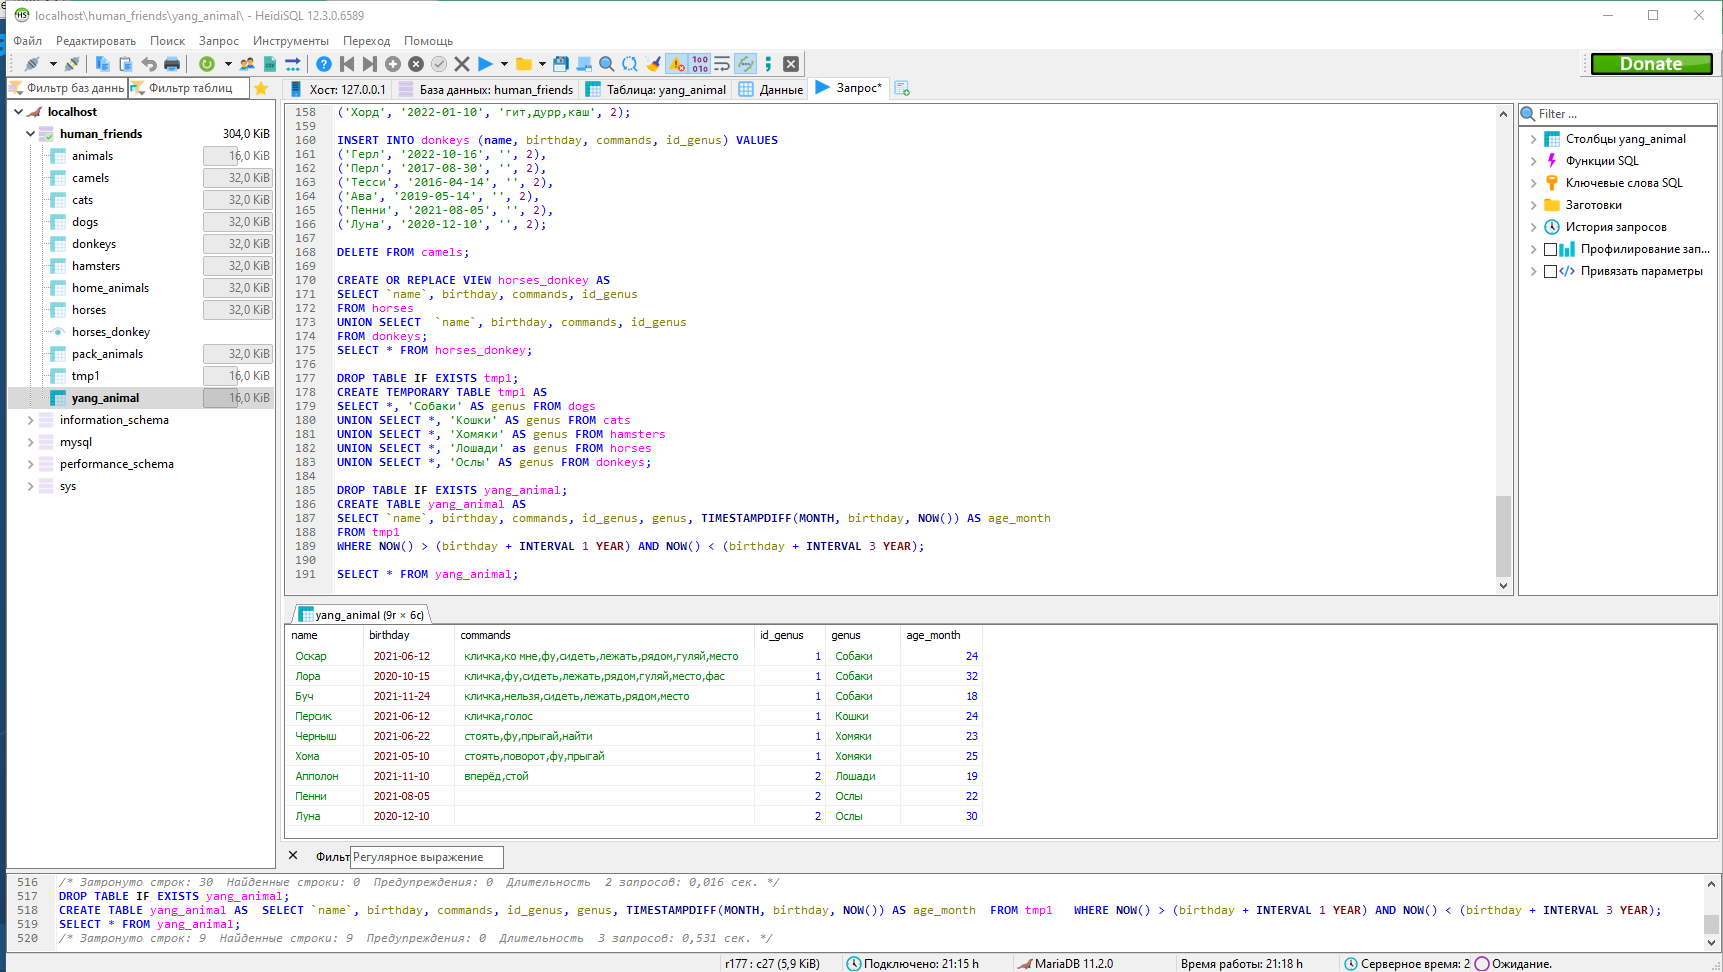
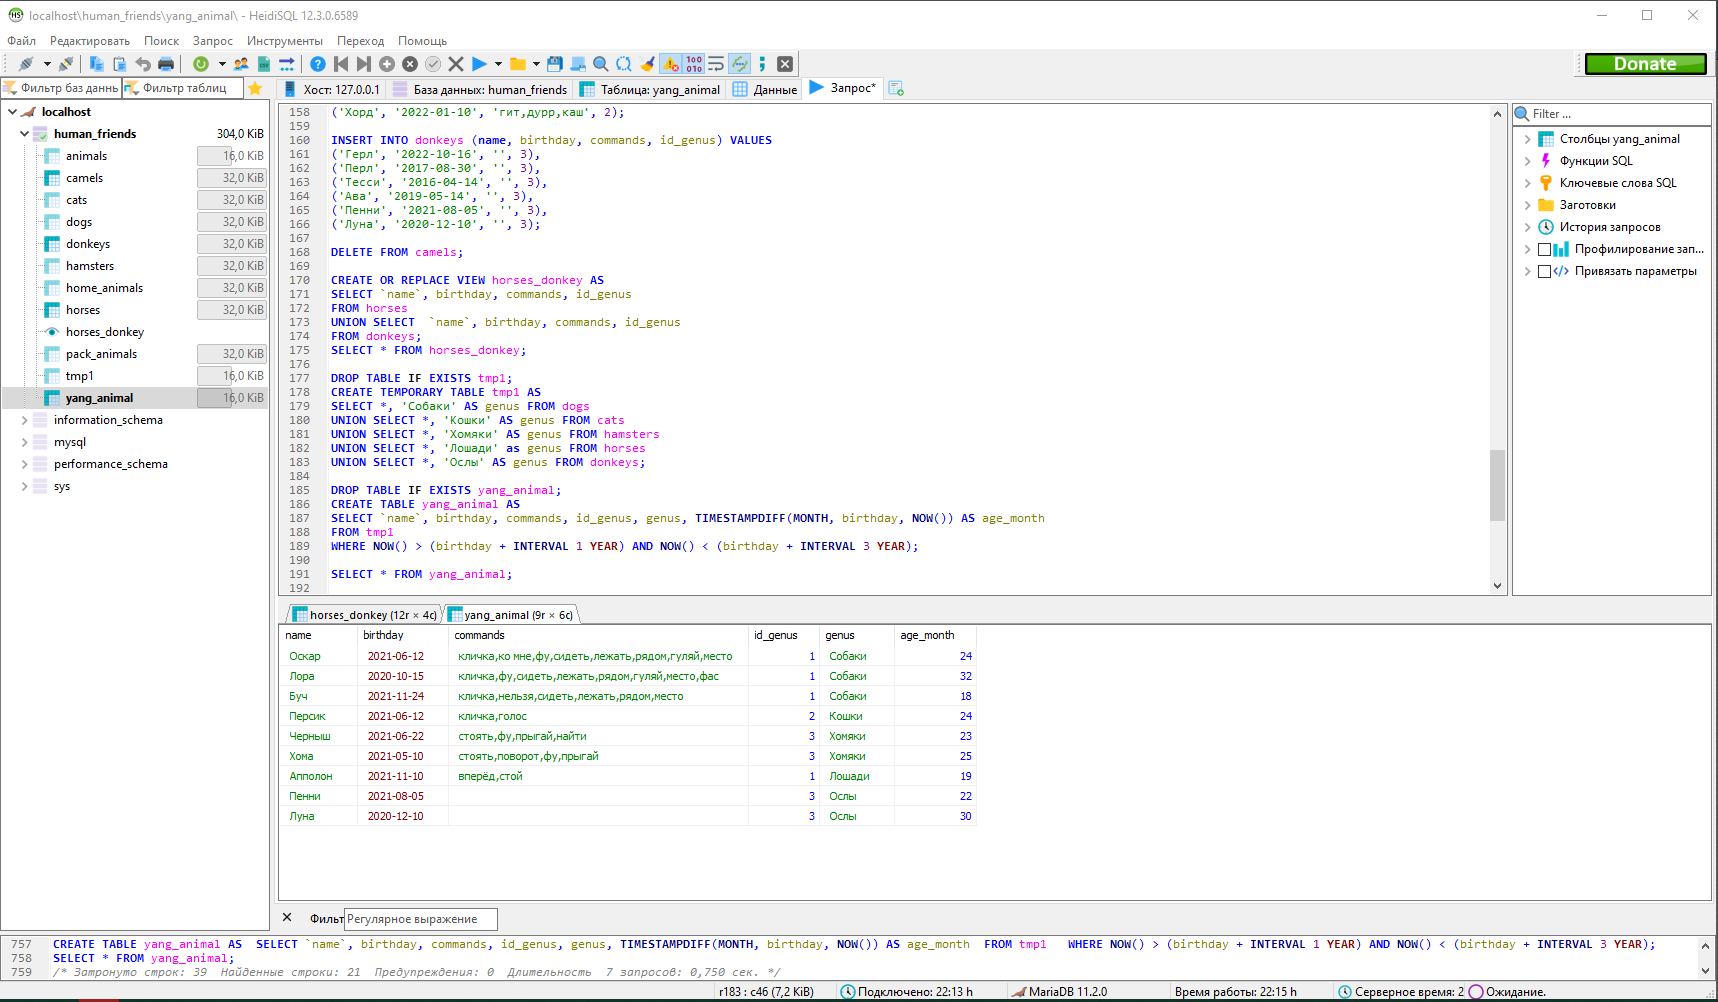
completing task 12,fixed the found errors and adding pictures for task

Changed region(s): [[0.0, 0.0, 1.0, 1.0], [0.5553, 0.7716, 0.5861, 0.8025], [0.5553, 0.7099, 0.5861, 0.7407]]

diff --git a/README.MD b/README.MD
@@ -248,7 +248,7 @@
     birthday DATE,
     commands tinytext,
     id_genus int,
-    FOREIGN KEY (id_genus) REFERENCES home_animals (id) ON DELETE CASCADE ON UPDATE CASCADE
+    FOREIGN KEY (id_genus) REFERENCES pack_animals (id) ON DELETE CASCADE ON UPDATE CASCADE
     );
     
     DROP TABLE IF EXISTS camels;
@@ -259,7 +259,7 @@
     birthday DATE,
     commands tinytext,
     id_genus int,
-    FOREIGN KEY (id_genus) REFERENCES home_animals (id) ON DELETE CASCADE ON UPDATE CASCADE
+    FOREIGN KEY (id_genus) REFERENCES pack_animals (id) ON DELETE CASCADE ON UPDATE CASCADE
     );
     
     DROP TABLE IF EXISTS donkeys;
@@ -270,7 +270,7 @@
     birthday DATE,
     commands tinytext,
     id_genus int,
-    FOREIGN KEY (id_genus) REFERENCES home_animals (id) ON DELETE CASCADE ON UPDATE CASCADE
+    FOREIGN KEY (id_genus) REFERENCES pack_animals (id) ON DELETE CASCADE ON UPDATE CASCADE
     );
 
 ### Задача 9
@@ -287,30 +287,30 @@
     ('Буч', '2021-11-24', 'кличка,нельзя,сидеть,лежать,рядом,место', 1);
     
     INSERT INTO cats (name, birthday, commands, id_genus) VALUES
-    ('Рубик', '2020-01-09', 'кличка,ко мне', 1),
-    ('Персик', '2021-06-12', 'кличка,голос', 1),  
-    ('Ася', '2017-12-04', 'кличка,голос,ко мне', 1),
-    ('Фиона', '2018-08-21', 'кличка,сидеть,ползи,принеси,голос,прыжок,ко мне', 1),
-    ('Смоки', '2019-05-11', 'кличка,сидеть,ползи,принеси,голос,прыжок,ко мне', 1),
-    ('Лиззи', '2022-07-08', 'кличка,кис-кис', 1);
+    ('Рубик', '2020-01-09', 'кличка,ко мне', 2),
+    ('Персик', '2021-06-12', 'кличка,голос', 2),  
+    ('Ася', '2017-12-04', 'кличка,голос,ко мне', 2),
+    ('Фиона', '2018-08-21', 'кличка,сидеть,ползи,принеси,голос,прыжок,ко мне', 2),
+    ('Смоки', '2019-05-11', 'кличка,сидеть,ползи,принеси,голос,прыжок,ко мне', 2),
+    ('Лиззи', '2022-07-08', 'кличка,кис-кис', 2);
     
     INSERT INTO hamsters (name, birthday, commands, id_genus) VALUES
-    ('Банни', '2020-01-08', 'стоять,поворот,фу,прыгай,найти', 1),
-    ('Черныш', '2021-06-22', 'стоять,фу,прыгай,найти', 1),  
-    ('Бонни', '2019-05-16', 'стоять,поворот,фу,прыгай,найти', 1),
-    ('Джей', '2018-05-30', 'стоять,поворот,фу', 1),
-    ('Винни', '2018-12-31', 'стоять,фу,найти', 1),
-    ('Хома', '2021-05-10', 'стоять,поворот,фу,прыгай', 1);
+    ('Банни', '2020-01-08', 'стоять,поворот,фу,прыгай,найти', 3),
+    ('Черныш', '2021-06-22', 'стоять,фу,прыгай,найти', 3),  
+    ('Бонни', '2019-05-16', 'стоять,поворот,фу,прыгай,найти', 3),
+    ('Джей', '2018-05-30', 'стоять,поворот,фу', 3),
+    ('Винни', '2018-12-31', 'стоять,фу,найти', 3),
+    ('Хома', '2021-05-10', 'стоять,поворот,фу,прыгай', 3);
     
     -- pack_animals tables data --
     
     INSERT INTO horses (name, birthday, commands, id_genus) VALUES
-    ('Виконт', '2015-01-24', 'вперёд,стой,рысь,хоп,шагом,тише', 2),
-    ('Буран', '2019-03-28', 'вперёд,стой,тише', 2),  
-    ('Базилик', '2016-09-12', 'вперёд,стой,рысь,хоп,шагом', 2),
-    ('Гранат', '2016-07-09', 'вперёд,стой,рысь,хоп,шагом,тише', 2),
-    ('Астон', '2018-09-14', 'вперёд,стой,рысь,хоп', 2),
-    ('Апполон', '2021-11-10', 'вперёд,стой', 2);
+    ('Виконт', '2015-01-24', 'вперёд,стой,рысь,хоп,шагом,тише', 1),
+    ('Буран', '2019-03-28', 'вперёд,стой,тише', 1),  
+    ('Базилик', '2016-09-12', 'вперёд,стой,рысь,хоп,шагом', 1),
+    ('Гранат', '2016-07-09', 'вперёд,стой,рысь,хоп,шагом,тише', 1),
+    ('Астон', '2018-09-14', 'вперёд,стой,рысь,хоп', 1),
+    ('Апполон', '2021-11-10', 'вперёд,стой', 1);
     
     INSERT INTO camels (name, birthday, commands, id_genus) VALUES
     ('Блум', '2022-01-23', 'гит,дурр,каш', 2),
@@ -321,12 +321,12 @@
     ('Хорд', '2022-01-10', 'гит,дурр,каш', 2);
     
     INSERT INTO donkeys (name, birthday, commands, id_genus) VALUES
-    ('Герл', '2022-10-16', '', 2),
-    ('Перл', '2017-08-30', '', 2),  
-    ('Тесси', '2016-04-14', '', 2),
-    ('Ава', '2019-05-14', '', 2),
-    ('Пенни', '2021-08-05', '', 2),
-    ('Луна', '2020-12-10', '', 2);
+    ('Герл', '2022-10-16', '', 3),
+    ('Перл', '2017-08-30', '', 3),  
+    ('Тесси', '2016-04-14', '', 3),
+    ('Ава', '2019-05-14', '', 3),
+    ('Пенни', '2021-08-05', '', 3),
+    ('Луна', '2020-12-10', '', 3);
 
 ### Задача 10
 Удалив из таблицы верблюдов, т.к. верблюдов решили перевезти в другой питомник на зимовку.
@@ -364,4 +364,47 @@
 ![alt-текст](./src/pictures/screenshot_10.png "Скрин истории команд")
 
 ### Задача 12
+Объединить все таблицы в одну, при этом сохраняя поля, указывающие на прошлую принадлежность к старым таблицам.
+
+    SELECT
+	    h.name, h.birthday, h.commands, h.id_genus,
+	    pa.genus_name,
+	    IFNULL(ya.age_month,TIMESTAMPDIFF(MONTH, h.birthday, NOW())) AS age_month 
+    FROM horses h
+    LEFT JOIN yang_animal ya ON ya.name = h.name
+    LEFT JOIN pack_animals pa ON pa.id = h.id_genus
+    UNION
+    SELECT
+        dk.name, dk.birthday, dk.commands, dk.id_genus,
+        pa.genus_name,
+        IFNULL(ya.age_month,TIMESTAMPDIFF(MONTH, dk.birthday, NOW())) AS age_month
+    FROM donkeys dk
+    LEFT JOIN yang_animal ya ON ya.name = dk.name
+    LEFT JOIN pack_animals pa ON pa.id = dk.id_genus
+    UNION
+    SELECT
+        c.name, c.birthday, c.commands, c.id_genus,
+        ha.genus_name,
+        IFNULL(ya.age_month,TIMESTAMPDIFF(MONTH, c.birthday, NOW())) AS age_month
+    FROM cats c
+    LEFT JOIN yang_animal ya ON ya.name = c.name
+    LEFT JOIN home_animals ha ON ha.id = c.id_genus
+    UNION
+    SELECT
+        d.name, d.birthday, d.commands, d.id_genus,
+        ha.genus_name,
+        IFNULL(ya.age_month,TIMESTAMPDIFF(MONTH, d.birthday, NOW())) AS age_month
+    FROM dogs d
+    LEFT JOIN yang_animal ya ON ya.name = d.name
+    LEFT JOIN home_animals ha ON ha.id = d.id_genus
+    UNION
+    SELECT
+        hm.name, hm.birthday, hm.commands, hm.id_genus,
+        ha.genus_name,
+        IFNULL(ya.age_month,TIMESTAMPDIFF(MONTH, hm.birthday, NOW())) AS age_month
+    FROM hamsters hm
+    LEFT JOIN yang_animal ya ON ya.name = hm.name
+    LEFT JOIN home_animals ha ON ha.id = hm.id_genus;
+
+![alt-текст](./src/pictures/screenshot_12.png "Скрин истории команд")
 
